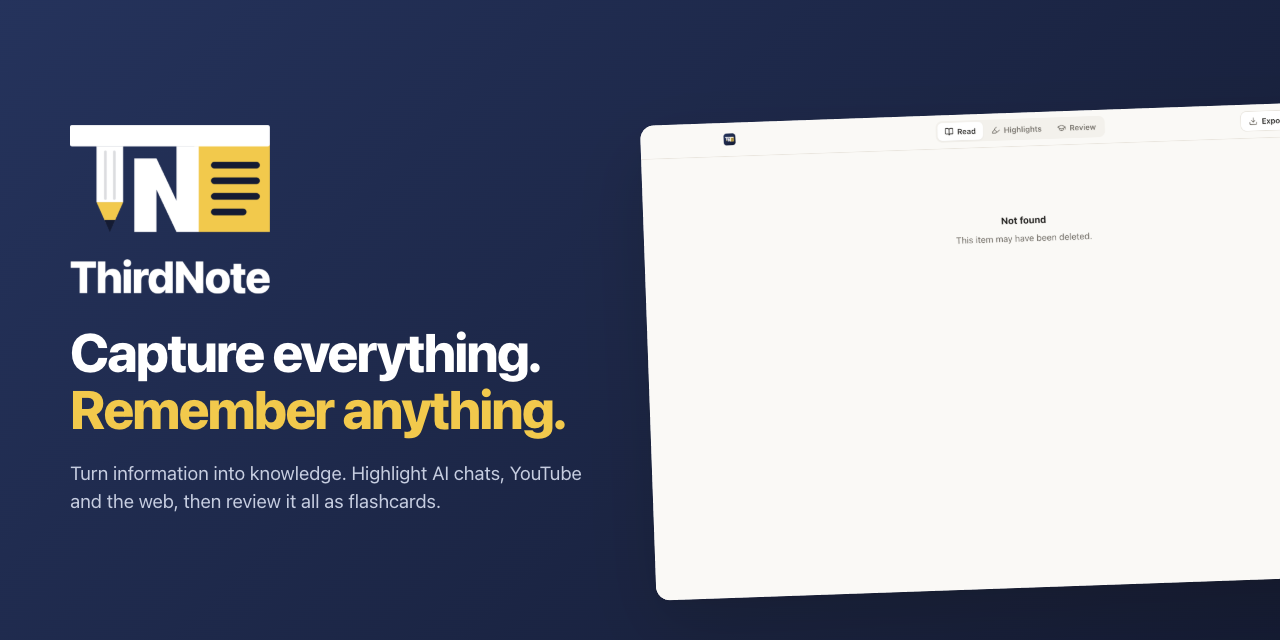
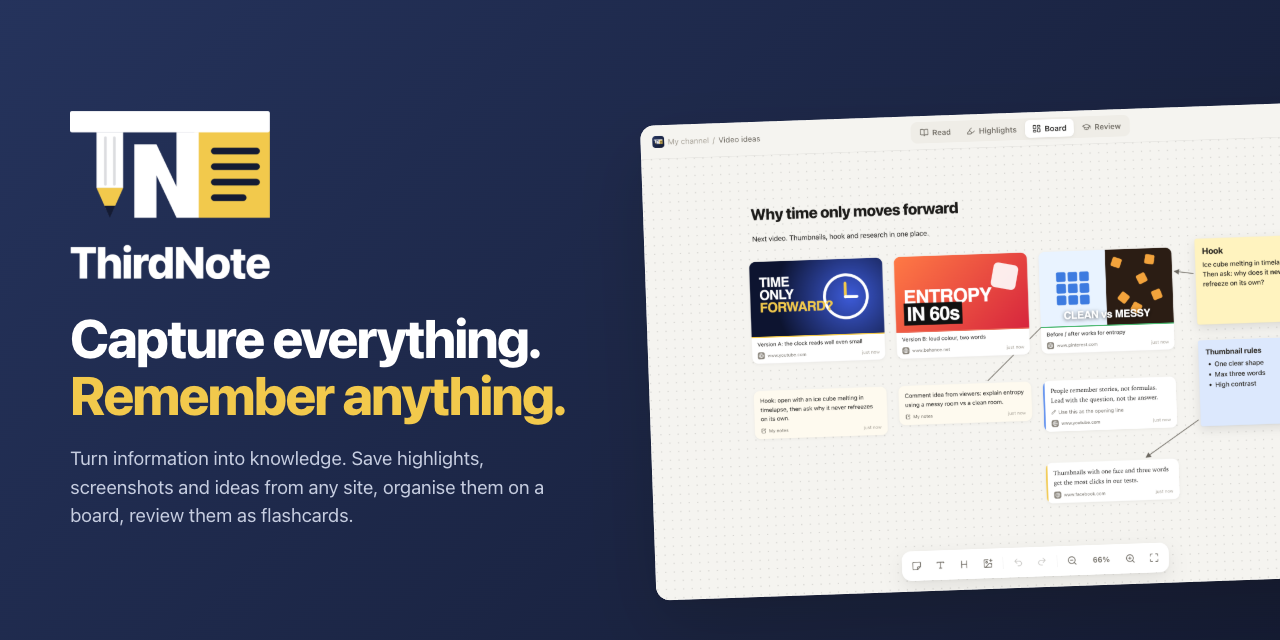
New store images and website section for the Board; summary mentions the board

diff --git a/docs/index.html b/docs/index.html
@@ -6,7 +6,7 @@
   <title>ThirdNote: Capture everything. Remember anything.</title>
   <meta name="description" content="Highlight and save what you learn from AI chats and any website, then review it as flashcards. Free Chrome extension. Everything stays on your device.">
   <meta property="og:title" content="ThirdNote: Capture everything. Remember anything.">
-  <meta property="og:description" content="Highlight AI chats, YouTube and the web, then review it all as flashcards.">
+  <meta property="og:description" content="Save highlights, screenshots and ideas from AI chats and any website, organise them on a board, then review them as flashcards.">
   <meta property="og:image" content="assets/cover.png">
   <meta name="twitter:card" content="summary_large_image">
   <link rel="icon" href="assets/favicon.png">
@@ -121,7 +121,7 @@
         <img src="assets/lockup-dark.png" alt="ThirdNote" style="width:190px;display:block;margin-bottom:34px">
         <div class="eyebrow">Free Chrome extension</div>
         <h1>Capture everything.<br><span>Remember anything.</span></h1>
-        <p>Turn information into knowledge. Highlight what matters in your AI chats, on YouTube and across the web, keep it in collections, and review it as flashcards.</p>
+        <p>Turn information into knowledge. Highlight what matters in your AI chats, videos and across the web, lay it out on a board, and review it as flashcards.</p>
         <div class="actions">
           <a class="btn" href="#install" data-store-link>
             <svg width="20" height="20" viewBox="0 0 24 24" fill="none" stroke="currentColor" stroke-width="2" stroke-linecap="round" stroke-linejoin="round"><path d="M21 15v4a2 2 0 0 1-2 2H5a2 2 0 0 1-2-2v-4"/><path d="m7 10 5 5 5-5"/><path d="M12 15V3"/></svg>
@@ -163,7 +163,7 @@
         <div class="card">
           <div class="ic"><svg width="22" height="22" viewBox="0 0 24 24" fill="none" stroke="currentColor" stroke-width="2" stroke-linecap="round" stroke-linejoin="round"><path d="M14.5 4h-5L7 7H4a2 2 0 0 0-2 2v9a2 2 0 0 0 2 2h16a2 2 0 0 0 2-2V9a2 2 0 0 0-2-2h-3l-2.5-3z"/><circle cx="12" cy="13" r="3"/></svg></div>
           <h3>Capture any part of the screen</h3>
-          <p>Grab a video frame, a chart or a post. On YouTube the timestamp is saved with it.</p>
+          <p>Grab a video frame, a chart or a post. On videos the timestamp comes with it. Screenshots never get lost in your gallery again.</p>
         </div>
         <div class="card">
           <div class="ic"><svg width="22" height="22" viewBox="0 0 24 24" fill="none" stroke="currentColor" stroke-width="2" stroke-linecap="round" stroke-linejoin="round"><path d="M20 20a2 2 0 0 0 2-2V8a2 2 0 0 0-2-2h-7.9a2 2 0 0 1-1.69-.9L9.6 3.9A2 2 0 0 0 7.93 3H4a2 2 0 0 0-2 2v13a2 2 0 0 0 2 2Z"/></svg></div>
@@ -176,9 +176,9 @@
           <p>Your own questions become the prompts. Recall first, reveal, and mark what to see again.</p>
         </div>
         <div class="card">
-          <div class="ic"><svg width="22" height="22" viewBox="0 0 24 24" fill="none" stroke="currentColor" stroke-width="2" stroke-linecap="round" stroke-linejoin="round"><path d="M21 15v4a2 2 0 0 1-2 2H5a2 2 0 0 1-2-2v-4"/><path d="m7 10 5 5 5-5"/><path d="M12 15V3"/></svg></div>
-          <h3>Export anytime</h3>
-          <p>Markdown or PDF, with highlights kept. Light and dark themes, in English and Bangla.</p>
+          <div class="ic"><svg width="22" height="22" viewBox="0 0 24 24" fill="none" stroke="currentColor" stroke-width="2" stroke-linecap="round" stroke-linejoin="round"><rect width="7" height="9" x="3" y="3" rx="1.5"/><rect width="7" height="5" x="14" y="3" rx="1.5"/><rect width="7" height="9" x="14" y="12" rx="1.5"/><rect width="7" height="5" x="3" y="16" rx="1.5"/></svg></div>
+          <h3>A board for your ideas</h3>
+          <p>Lay out screenshots, notes and highlights on a canvas with sticky notes, images and arrows. Export to Markdown or PDF.</p>
         </div>
       </div>
 
@@ -191,12 +191,19 @@
       </div>
       <div class="feature flip">
         <div class="copy">
+          <h3>Your ideas, on one board</h3>
+          <p>Every collection has a canvas. Screenshots, clips, notes and saved chats appear as cards. Move them, resize them, connect them with arrows, and drop in sticky notes, headings and images. Great for thumbnail ideas, research and study maps.</p>
+        </div>
+        <div class="shot"><img src="assets/app-board.png" alt="ThirdNote board with screenshots, notes and sticky notes"></div>
+      </div>
+      <div class="feature">
+        <div class="copy">
           <h3>Everything worth remembering, in one place</h3>
           <p>The side panel keeps your collections, groups and highlights next to whatever you are reading. Search across all of it.</p>
         </div>
         <div class="shot" style="max-width:380px;justify-self:center"><img src="assets/app-sidepanel.png" alt="ThirdNote side panel with highlights"></div>
       </div>
-      <div class="feature">
+      <div class="feature flip">
         <div class="copy">
           <h3>Remember anything</h3>
           <p>Review mode shows one card at a time. Your question on the front, your highlight on the back. Keyboard friendly: Space, 1, 2.</p>

diff --git a/store/listing.md b/store/listing.md
@@ -5,10 +5,10 @@ Copy each part below into the matching field of the Chrome Web Store Developer D
 ## Store listing tab
 
 **Name** (comes from the manifest)
-ThirdNote: AI Chat Notes & Highlighter
+ThirdNote: Capture Everything. Remember Anything.
 
 **Summary** (comes from the manifest, max 132 characters)
-Highlight and save what you learn from AI chats and any website, then review it as flashcards.
+Save highlights, screenshots and ideas from AI chats and any website. Organise them on a board and review as flashcards.
 
 **Homepage URL**
 https://fahadmahmud2004.github.io/thirdnote/ (developer site: https://fahadmahmud.com)
@@ -24,7 +24,7 @@ English
 ```
 ThirdNote turns what you read in AI chats and on the web into notes you can come back to. Capture everything. Remember anything.
 
-Select any text, pick a colour, and it is saved into the collection you choose. Later, read it all in one clean place or test yourself with flashcards.
+Select any text, pick a colour, and it is saved into the collection you choose. Grab screenshots that never get lost in your gallery again. Lay everything out on a board with your own sticky notes and ideas. Later, read it all in one clean place or test yourself with flashcards.
 
 HIGHLIGHT ANYWHERE
 - Select text on any website and pick a colour, or press 1 to 4.
@@ -41,11 +41,20 @@ SAVE AI CHATS
 COLLECTIONS
 - Group everything by subject, project or idea.
 - Turn on Collecting and every save goes straight into one collection.
-- Write your own notes, and edit or trim anything you saved.
+- Write your own notes with headings, lists, links, images and highlights.
+- Edit or trim anything you saved.
 
 SCREENSHOTS
 - Capture any area of the screen with Alt+Shift+S.
-- On YouTube, the video timestamp is saved with the screenshot.
+- Add a note and it goes straight into the right collection.
+- On video sites, the video timestamp is saved with the screenshot.
+
+BOARD
+- Every collection has its own canvas.
+- Your screenshots, clips, notes and saved chats appear as cards.
+- Move, resize and connect them with arrows.
+- Add sticky notes, headings, text and images (paste or drag them in).
+- Perfect for thumbnail ideas, research, mood boards and study maps.
 
 REVIEW
 - Read saved chats as clean notes with your highlights.
@@ -64,7 +73,7 @@ Made by Fahad Mahmud (fahadmahmud.com).
 
 **Graphic assets** (all in `store/images/`)
 - Store icon 128x128: `icons/icon128.png`
-- Screenshots 1280x800: `screenshot-1-highlight.png` to `screenshot-5-capture.png`
+- Screenshots 1280x800: `screenshot-1-highlight.png` to `screenshot-5-review.png`
 - Small promo tile 440x280: `promo-small-440x280.png`
 - Marquee promo tile 1400x560: `promo-marquee-1400x560.png`
 
@@ -73,7 +82,7 @@ Made by Fahad Mahmud (fahadmahmud.com).
 **Single purpose**
 
 ```
-ThirdNote lets users highlight and save text, AI chat conversations, notes and screenshots from web pages into local collections, and review them later.
+ThirdNote lets users highlight and save text, AI chat conversations, notes and screenshots from web pages into local collections, arrange them on a board, and review them later.
 ```
 
 **Permission justifications**
@@ -100,7 +109,7 @@ Adds "Save selection to ThirdNote" and "Capture an area to ThirdNote" to the rig
 
 Host permission (<all_urls>)
 ```
-Users study from many sites (AI chats, YouTube, Wikipedia, news, PDFs), so the highlight toolbar must work on any page the user selects text on. The content script only reads the text the user selects, or a chat the user explicitly chooses to save. The host permission is also required by chrome.tabs.captureVisibleTab for the screenshot feature, which runs only when the user asks for it.
+Users study from many sites (AI chats, video sites, encyclopedias, news, PDFs), so the highlight toolbar must work on any page the user selects text on. The content script only reads the text the user selects, or a chat the user explicitly chooses to save. The host permission is also required by chrome.tabs.captureVisibleTab for the screenshot feature, which runs only when the user asks for it.
 ```
 
 **Remote code**
